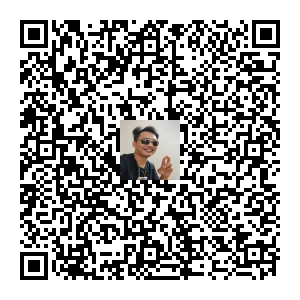
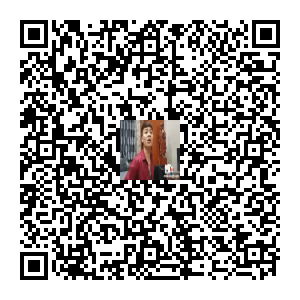
option gen qr

Changed region(s): [[0.39, 0.39, 0.6, 0.6]]

diff --git a/src/main/java/rmhub/mod/schedule/aop/DynamicQRGenerator.java b/src/main/java/rmhub/mod/schedule/aop/DynamicQRGenerator.java
@@ -2,20 +2,36 @@ package rmhub.mod.schedule.aop;
 
 import com.google.zxing.BarcodeFormat;
 import com.google.zxing.EncodeHintType;
-import com.google.zxing.client.j2se.MatrixToImageWriter;
 import com.google.zxing.common.BitMatrix;
 import com.google.zxing.qrcode.QRCodeWriter;
 import com.google.zxing.qrcode.decoder.ErrorCorrectionLevel;
 
 import java.io.File;
 import java.nio.charset.StandardCharsets;
-import java.nio.file.Path;
 import java.util.HashMap;
+import java.util.Iterator;
 import java.util.Map;
 
 import javax.imageio.ImageIO;
+import javax.imageio.stream.ImageInputStream;
 import java.awt.*;
 import java.awt.image.BufferedImage;
+
+import com.google.zxing.BarcodeFormat;
+import com.google.zxing.EncodeHintType;
+import com.google.zxing.qrcode.QRCodeWriter;
+import com.google.zxing.qrcode.decoder.ErrorCorrectionLevel;
+import com.google.zxing.common.BitMatrix;
+
+import javax.imageio.ImageIO;
+import javax.imageio.ImageReader;
+import javax.imageio.stream.ImageInputStream;
+import java.awt.*;
+import java.awt.image.BufferedImage;
+import java.io.File;
+import java.util.HashMap;
+import java.util.Iterator;
+import java.util.Map;
 
 public class DynamicQRGenerator {
     // Dịch vụ chuyển tiền nhanh NAPAS247 đến tài khoản
@@ -98,10 +114,11 @@ public class DynamicQRGenerator {
 
 //        String qrDataWithCRC = "Your_QR_Data_Here";
         String filePath = "dynamic_qr_with_icon.png";
-        String iconPath = "tienbip.png"; // Đường dẫn đến file icon
-
+//        String iconPath = "khabanh.png"; // Đường dẫn đến file icon
+        String text = "Khánh Sky! \n"+"Trùm kéo view số 1 VN";
+        String gifPath = "Kh_B_nh_B_ch_i_l_t_c_nh_l_ng_l_n.gif";
         DynamicQRGenerator generator = new DynamicQRGenerator();
-        generator.generateQrCodeWithColorIcon(qrDataWithCRC, filePath, iconPath);
+        generator.generateQrWithGifIcon(qrDataWithCRC,filePath, gifPath);
 
         System.out.println("QR Code with icon generated at: " + filePath);
 
@@ -199,8 +216,8 @@ public class DynamicQRGenerator {
 //    }
 
 //    public void generateQrCodeWithColorIcon(String content, String filePath, String iconPath) throws Exception {
-//        int width = 300;
-//        int height = 300;
+//        int width = 700;
+//        int height = 700;
 //
 //        // Tạo mã QR
 //        Map<EncodeHintType, Object> hints = new HashMap<>();
@@ -216,8 +233,8 @@ public class DynamicQRGenerator {
 //        BufferedImage icon = ImageIO.read(new File(iconPath));
 //
 //        // Tính toán kích thước icon để chèn vào trung tâm mã QR
-//        int iconWidth = qrImage.getWidth() / 5;  // Icon chiếm 1/5 kích thước mã QR
-//        int iconHeight = qrImage.getHeight() / 5;
+//        int iconWidth = qrImage.getWidth() / 2;  // Icon chiếm 1/5 kích thước mã QR
+//        int iconHeight = qrImage.getHeight() / 2;
 //
 //        // Chỉnh kích thước icon
 //        Image scaledIcon = icon.getScaledInstance(iconWidth, iconHeight, Image.SCALE_SMOOTH);
@@ -244,50 +261,165 @@ public class DynamicQRGenerator {
 //        // Lưu mã QR với icon vào file
 //        ImageIO.write(qrImage, "PNG", file);
 //    }
-public void generateQrCodeWithColorIcon(String content, String filePath, String iconPath) throws Exception {
-    int width = 300;
-    int height = 300;
+//public void generateQrCodeWithColorIcon(String content, String filePath, String iconPath) throws Exception {
+//    int width = 300;
+//    int height = 300;
+//
+//    // Tạo mã QR
+//    Map<EncodeHintType, Object> hints = new HashMap<>();
+//    hints.put(EncodeHintType.ERROR_CORRECTION, ErrorCorrectionLevel.H);
+//
+//    QRCodeWriter qrCodeWriter = new QRCodeWriter();
+//    BitMatrix bitMatrix = qrCodeWriter.encode(content, BarcodeFormat.QR_CODE, width, height, hints);
+//
+//    // Chuyển BitMatrix thành BufferedImage hỗ trợ màu
+//    BufferedImage qrImage = new BufferedImage(width, height, BufferedImage.TYPE_INT_RGB);
+//    for (int x = 0; x < width; x++) {
+//        for (int y = 0; y < height; y++) {
+//            qrImage.setRGB(x, y, bitMatrix.get(x, y) ? Color.BLACK.getRGB() : Color.WHITE.getRGB());
+//        }
+//    }
+//
+//    // Tải biểu tượng (icon) và đảm bảo định dạng hỗ trợ màu
+//    BufferedImage icon = ImageIO.read(new File(iconPath));
+//    if (icon.getType() != BufferedImage.TYPE_INT_ARGB) {
+//        BufferedImage temp = new BufferedImage(icon.getWidth(), icon.getHeight(), BufferedImage.TYPE_INT_ARGB);
+//        Graphics2D g2d = temp.createGraphics();
+//        g2d.drawImage(icon, 0, 0, null);
+//        g2d.dispose();
+//        icon = temp;
+//    }
+//
+//    // Tính toán kích thước và chèn biểu tượng
+//    int iconWidth = qrImage.getWidth() / 5;  // Icon chiếm 1/5 mã QR
+//    int iconHeight = qrImage.getHeight() / 5;
+//    int centerX = (qrImage.getWidth() - iconWidth) / 2;
+//    int centerY = (qrImage.getHeight() - iconHeight) / 2;
+//
+//    Graphics2D graphics = qrImage.createGraphics();
+//    graphics.setComposite(AlphaComposite.SrcOver); // Hỗ trợ màu và độ trong suốt
+//    graphics.drawImage(icon.getScaledInstance(iconWidth, iconHeight, Image.SCALE_SMOOTH), centerX, centerY, null);
+//    graphics.dispose();
+//
+//    // Lưu mã QR với biểu tượng
+//    ImageIO.write(qrImage, "PNG", new File(filePath));
+//}
 
-    // Tạo mã QR
+
+//        public void generateQrCodeWithTextAndIcon(String content, String filePath, String iconPath, String text) throws Exception {
+//            int qrWidth = 300;
+//            int qrHeight = 300;
+//            int padding = 20; // Khoảng cách giữa mã QR và văn bản
+//
+//            // Tạo mã QR
+//            Map<EncodeHintType, Object> hints = new HashMap<>();
+//            hints.put(EncodeHintType.ERROR_CORRECTION, ErrorCorrectionLevel.H);
+//
+//            QRCodeWriter qrCodeWriter = new QRCodeWriter();
+//            BitMatrix bitMatrix = qrCodeWriter.encode(content, BarcodeFormat.QR_CODE, qrWidth, qrHeight, hints);
+//
+//            // Chuyển BitMatrix thành BufferedImage
+//            BufferedImage qrImage = new BufferedImage(qrWidth, qrHeight, BufferedImage.TYPE_INT_RGB);
+//            for (int x = 0; x < qrWidth; x++) {
+//                for (int y = 0; y < qrHeight; y++) {
+//                    qrImage.setRGB(x, y, bitMatrix.get(x, y) ? Color.BLACK.getRGB() : Color.WHITE.getRGB());
+//                }
+//            }
+//
+//            // Tải biểu tượng (icon)
+//            BufferedImage icon = ImageIO.read(new File(iconPath));
+//            int iconWidth = qrImage.getWidth() / 5;
+//            int iconHeight = qrImage.getHeight() / 5;
+//            int centerX = (qrImage.getWidth() - iconWidth) / 2;
+//            int centerY = (qrImage.getHeight() - iconHeight) / 2;
+//
+//            // Chèn biểu tượng vào QR
+//            Graphics2D qrGraphics = qrImage.createGraphics();
+//            qrGraphics.drawImage(icon.getScaledInstance(iconWidth, iconHeight, Image.SCALE_SMOOTH), centerX, centerY, null);
+//            qrGraphics.dispose();
+//
+//            // Tạo hình ảnh lớn hơn để chứa cả QR và văn bản
+//            int totalHeight = qrHeight + padding + 30; // 30 là chiều cao ước tính của văn bản
+//            BufferedImage finalImage = new BufferedImage(qrWidth, totalHeight, BufferedImage.TYPE_INT_RGB);
+//
+//            Graphics2D g = finalImage.createGraphics();
+//
+//            // Vẽ nền trắng
+//            g.setColor(Color.WHITE);
+//            g.fillRect(0, 0, qrWidth, totalHeight);
+//
+//            // Vẽ mã QR
+//            g.drawImage(qrImage, 0, 0, null);
+//
+//            // Vẽ văn bản bên dưới mã QR
+//            g.setColor(Color.BLACK);
+//            g.setFont(new Font("Arial", Font.PLAIN, 16));
+//            FontMetrics fontMetrics = g.getFontMetrics();
+//            int textWidth = fontMetrics.stringWidth(text);
+//            int textX = (qrWidth - textWidth) / 2;
+//            int textY = qrHeight + padding + fontMetrics.getAscent();
+//
+//            g.drawString(text, textX, textY);
+//            g.dispose();
+//
+//            // Lưu hình ảnh cuối cùng
+//            ImageIO.write(finalImage, "PNG", new File(filePath));
+//        }
+public void generateQrWithGifIcon(String content, String filePath, String gifPath) throws Exception {
+    int qrWidth = 300;
+    int qrHeight = 300;
+
+    // Tạo QR Code
     Map<EncodeHintType, Object> hints = new HashMap<>();
     hints.put(EncodeHintType.ERROR_CORRECTION, ErrorCorrectionLevel.H);
 
     QRCodeWriter qrCodeWriter = new QRCodeWriter();
-    BitMatrix bitMatrix = qrCodeWriter.encode(content, BarcodeFormat.QR_CODE, width, height, hints);
+    BitMatrix bitMatrix = qrCodeWriter.encode(content, BarcodeFormat.QR_CODE, qrWidth, qrHeight, hints);
 
-    // Chuyển BitMatrix thành BufferedImage hỗ trợ màu
-    BufferedImage qrImage = new BufferedImage(width, height, BufferedImage.TYPE_INT_RGB);
-    for (int x = 0; x < width; x++) {
-        for (int y = 0; y < height; y++) {
+    BufferedImage qrImage = new BufferedImage(qrWidth, qrHeight, BufferedImage.TYPE_INT_RGB);
+    for (int x = 0; x < qrWidth; x++) {
+        for (int y = 0; y < qrHeight; y++) {
             qrImage.setRGB(x, y, bitMatrix.get(x, y) ? Color.BLACK.getRGB() : Color.WHITE.getRGB());
         }
     }
 
-    // Tải biểu tượng (icon) và đảm bảo định dạng hỗ trợ màu
-    BufferedImage icon = ImageIO.read(new File(iconPath));
-    if (icon.getType() != BufferedImage.TYPE_INT_ARGB) {
-        BufferedImage temp = new BufferedImage(icon.getWidth(), icon.getHeight(), BufferedImage.TYPE_INT_ARGB);
-        Graphics2D g2d = temp.createGraphics();
-        g2d.drawImage(icon, 0, 0, null);
-        g2d.dispose();
-        icon = temp;
+    // Lấy khung đầu tiên của GIF
+    BufferedImage gifFrame = extractFirstFrameFromGif(gifPath);
+    if (gifFrame == null) {
+        throw new RuntimeException("Cannot read GIF file or extract first frame.");
     }
 
-    // Tính toán kích thước và chèn biểu tượng
-    int iconWidth = qrImage.getWidth() / 5;  // Icon chiếm 1/5 mã QR
+    // Resize GIF frame để phù hợp với QR
+    int iconWidth = qrImage.getWidth() / 5;
     int iconHeight = qrImage.getHeight() / 5;
+    Image scaledGifFrame = gifFrame.getScaledInstance(iconWidth, iconHeight, Image.SCALE_SMOOTH);
+
+    // Chèn GIF frame vào QR
+    Graphics2D qrGraphics = qrImage.createGraphics();
     int centerX = (qrImage.getWidth() - iconWidth) / 2;
     int centerY = (qrImage.getHeight() - iconHeight) / 2;
+    qrGraphics.drawImage(scaledGifFrame, centerX, centerY, null);
+    qrGraphics.dispose();
 
-    Graphics2D graphics = qrImage.createGraphics();
-    graphics.setComposite(AlphaComposite.SrcOver); // Hỗ trợ màu và độ trong suốt
-    graphics.drawImage(icon.getScaledInstance(iconWidth, iconHeight, Image.SCALE_SMOOTH), centerX, centerY, null);
-    graphics.dispose();
 
-    // Lưu mã QR với biểu tượng
+
+    // Lưu QR với GIF
     ImageIO.write(qrImage, "PNG", new File(filePath));
+    System.out.println("QR code with GIF icon saved to: " + filePath);
 }
 
+    private BufferedImage extractFirstFrameFromGif(String gifPath) throws Exception {
+        File gifFile = new File(gifPath);
+        ImageInputStream inputStream = ImageIO.createImageInputStream(gifFile);
+        Iterator<ImageReader> readers = ImageIO.getImageReadersByFormatName("gif");
 
+        if (readers.hasNext()) {
+            ImageReader reader = readers.next();
+            reader.setInput(inputStream);
+
+            return reader.read(0); // Đọc khung đầu tiên
+        }
+        return null;
+    }
 }
 
